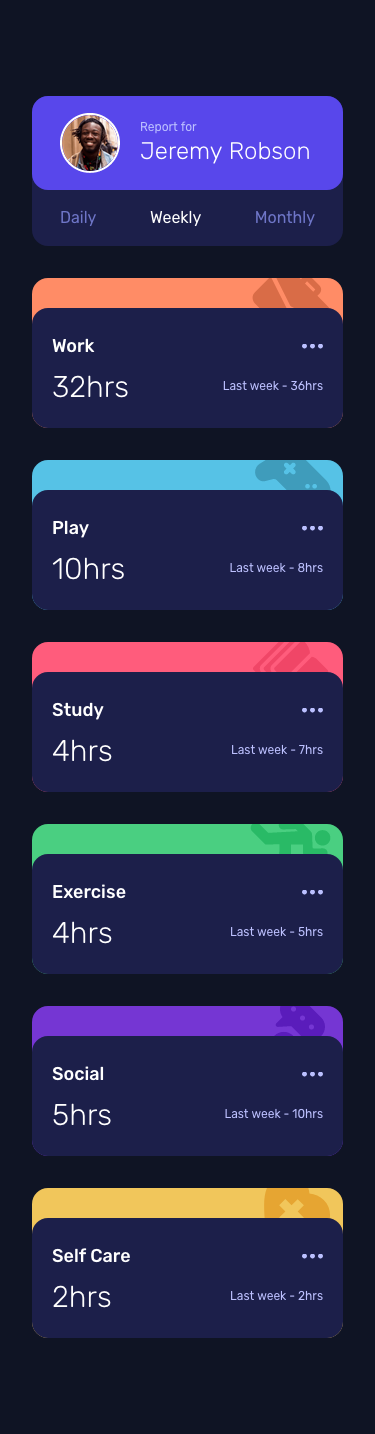
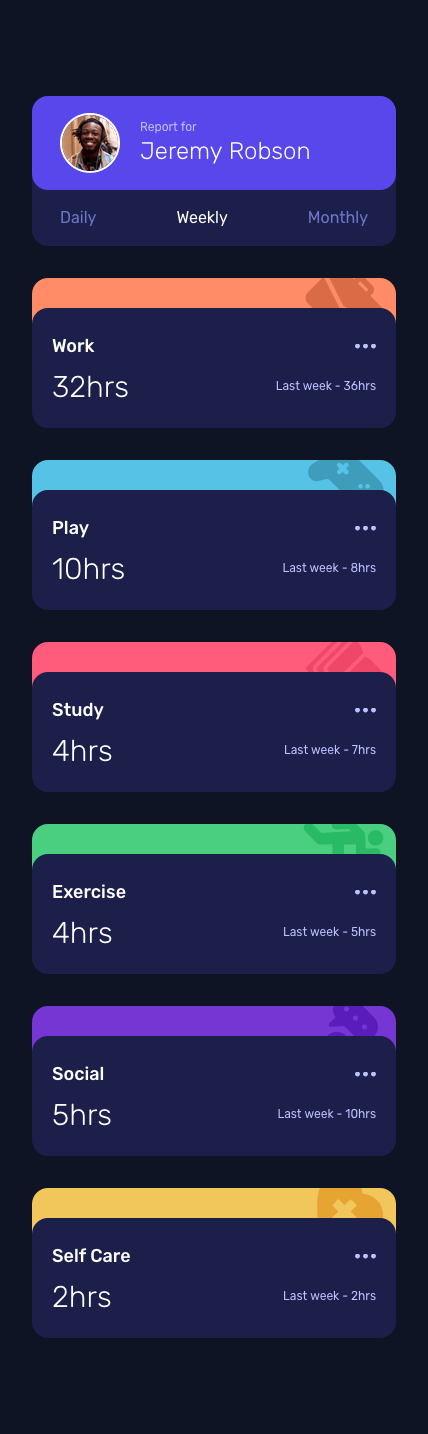
.

diff --git a/src/components/Card/index.jsx b/src/components/Card/index.jsx
@@ -29,7 +29,7 @@ const Card = ({ title = 'Work', timeframes }) => {
       <div className='relative overflow-hidden flex justify-center items-center w-full lg:h-[200px] h-[150px]'>
         {/* Icon and background color */}
         <div
-          className={`h-full w-full ${iconTypeBg[title]} rounded-2xl flex justify-end`}
+          className={`h-full w-full ${iconTypeBg[title]} rounded-2xl rounded-b-3xl flex justify-end`}
         >
           {title === 'Work' && <Work className='absolute -top-3 right-3' />}
           {title === 'Exercise' && (
